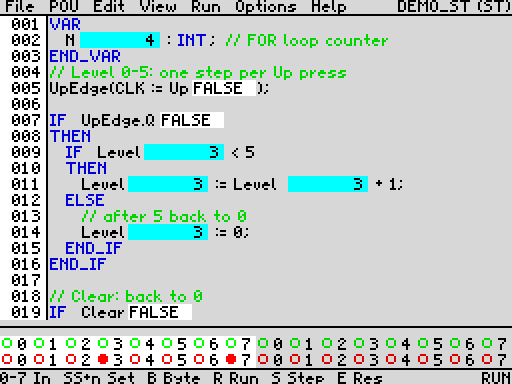
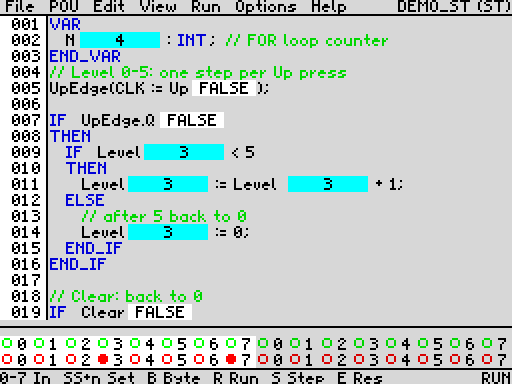
ST simulation: the value texts centred in their fields
Claude-Session: https://claude.ai/code/session_01VKWfWdLZ4jVfo626yCcR9d

diff --git a/docs/MANUAL.md b/docs/MANUAL.md
@@ -566,7 +566,7 @@ the faulty line or element; the message is shown in the status bar.
 
   * In ST every variable shows its value right behind its name, in a field that starts on the next
     character cell: BOOL as TRUE (green) / FALSE (white) in 4 cells, INT (5 cells) and TIME (7 cells)
-    on light blue. Up to 4 fields per line; what does not fit on the screen width is left out:
+    on light blue, the text centred. Up to 4 fields per line; what does not fit on the screen width is left out:
 
     ![Simulation of DEMO_ST](img/sim_st.png)
 
